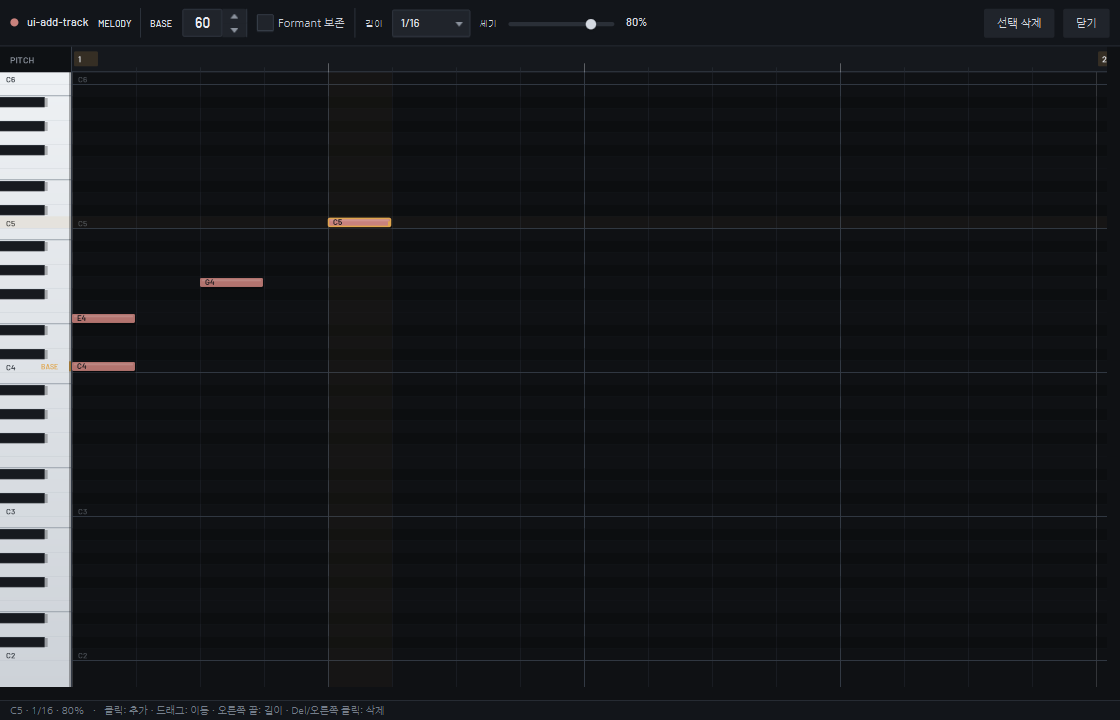
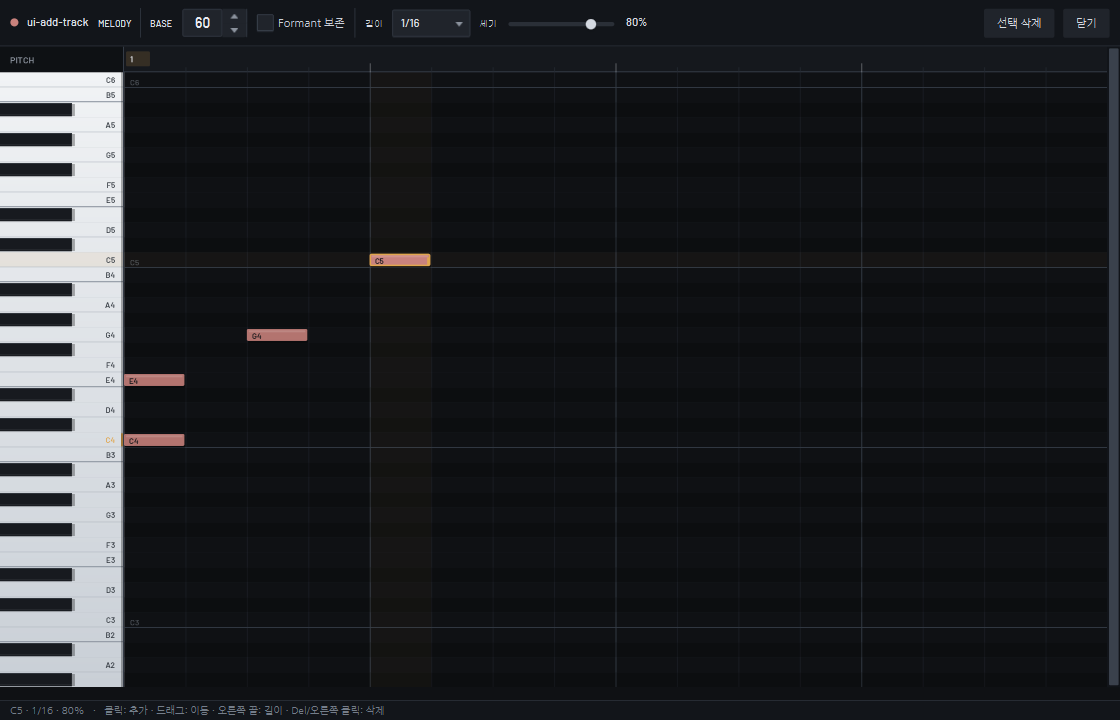
feat: widen piano roll keys and align labels with rows

diff --git a/src/main/java/io/pocketgroove/PianoRollDialog.java b/src/main/java/io/pocketgroove/PianoRollDialog.java
@@ -35,6 +35,10 @@ import java.util.function.Consumer;
 
 /** Modeless-ish piano roll for one melody track; edits are applied to the shared project immediately. */
 final class PianoRollDialog {
+    static final double KEY_W = 124;
+    static final double RULER_H = 26;
+    static final double ROW_H = 15;
+
     private PianoRollDialog() {}
 
     static Stage show(Window owner, Beat.Track track, int trackIndex, List<Beat.Hit> initial,
@@ -146,9 +150,6 @@ final class PianoRollDialog {
     }
 
     private static final class PianoRollView extends Region {
-        private static final double KEY_W = 72;
-        private static final double RULER_H = 26;
-        private static final double ROW_H = 12;
         private static final double MIN_STEP_WIDTH = 18;
         private static final double MAX_STEP_WIDTH = 64;
         private static final int MIN_PITCH = -Beat.MAX_NOTE_PITCH;
@@ -362,7 +363,7 @@ final class PianoRollDialog {
             gc.rect(0, RULER_H, KEY_W, Math.max(0, h - RULER_H));
             gc.clip();
             gc.setFill(new LinearGradient(0, 0, 0, 1, true, CycleMethod.NO_CYCLE,
-                    new Stop(0, Color.web("#EEF1F4")), new Stop(1, Color.web("#CDD2D8"))));
+                    new Stop(0, Color.web("#F1F3F5")), new Stop(1, Color.web("#C9CFD6"))));
             gc.fillRect(0, RULER_H, KEY_W, Math.max(0, h - RULER_H));
             gc.setFont(DawStyle.display(8));
             for (int offset = MAX_PITCH; offset >= MIN_PITCH; offset--) {
@@ -371,45 +372,46 @@ final class PianoRollDialog {
                 int midi = midiFor(offset);
                 int pitchClass = Math.floorMod(midi, 12);
                 boolean black = isBlack(pitchClass);
-                if (!black) {
-                    gc.setFill(DawStyle.alpha(Color.web("#AEB5BE"), .62));
-                    gc.fillRect(0, y + ROW_H - .5, KEY_W, .5);
-                    if (pitchClass == 4 || pitchClass == 11) {
-                        gc.setFill(DawStyle.alpha(Color.web("#8D959F"), .78));
-                        gc.fillRect(0, y + ROW_H - 1.2, KEY_W, 1);
-                    }
-                }
-                if (black) {
-                    double blackWidth = KEY_W * .62;
-                    gc.setFill(DawStyle.alpha(Color.BLACK, .26));
-                    gc.fillRect(blackWidth, y + 1.5, 3, ROW_H - 3);
-                    gc.setFill(Color.web("#171A1F"));
-                    gc.fillRect(0, y + .5, blackWidth, ROW_H - 1.5);
-                    gc.setFill(Color.web("#2B3037"));
-                    gc.fillRect(0, y + .5, blackWidth, 1);
-                    gc.setFill(DawStyle.alpha(Color.WHITE, .07));
-                    gc.fillRect(0, y + ROW_H - 2.5, blackWidth, .7);
-                }
-                if (pitchClass == 0) {
-                    gc.setFill(black ? DawStyle.MUTED : Color.web("#3B4148"));
-                    gc.fillText(noteName(midi), 6, y + ROW_H - 2);
-                }
-                if (offset == 0) {
-                    gc.setFill(DawStyle.ACCENT);
-                    gc.fillRect(KEY_W - 3, y + 1, 2.5, ROW_H - 2);
-                    gc.setFont(DawStyle.display(7));
-                    gc.fillText("BASE", KEY_W - 31, y + ROW_H - 3);
-                    gc.setFont(DawStyle.display(8));
-                }
                 if (hoverPitch == offset) {
-                    gc.setFill(DawStyle.alpha(DawStyle.ACCENT, .16));
+                    gc.setFill(DawStyle.alpha(DawStyle.ACCENT, .15));
                     gc.fillRect(0, y, KEY_W, ROW_H - .5);
                 }
                 if (selected != null && close(selected.pitch(), offset)) {
                     gc.setFill(DawStyle.alpha(DawStyle.ACCENT, .10));
                     gc.fillRect(0, y, KEY_W, ROW_H - .5);
                 }
+                gc.setFill(DawStyle.alpha(Color.web("#AEB5BE"), .42));
+                gc.fillRect(0, y + ROW_H - .5, KEY_W, .5);
+                if (!black) {
+                    gc.setFill(DawStyle.alpha(Color.web("#AEB5BE"), .72));
+                    gc.fillRect(0, y + ROW_H - .8, KEY_W, .8);
+                    if (pitchClass == 4 || pitchClass == 11) {
+                        gc.setFill(DawStyle.alpha(Color.web("#858E99"), .85));
+                        gc.fillRect(0, y + ROW_H - 1.3, KEY_W, 1.1);
+                    }
+                }
+                if (black) {
+                    double blackWidth = KEY_W * .58;
+                    gc.setFill(DawStyle.alpha(Color.BLACK, .30));
+                    gc.fillRect(blackWidth, y + 1.5, 3, ROW_H - 3);
+                    gc.setFill(Color.web("#171A1F"));
+                    gc.fillRect(0, y + .5, blackWidth, ROW_H - 1.5);
+                    gc.setFill(Color.web("#30353C"));
+                    gc.fillRect(0, y + .5, blackWidth, 1);
+                    gc.setFill(DawStyle.alpha(Color.WHITE, .08));
+                    gc.fillRect(0, y + ROW_H - 3, blackWidth, .8);
+                }
+                if (!black) {
+                    gc.setTextAlign(TextAlignment.RIGHT);
+                    gc.setFill(offset == 0 ? DawStyle.ACCENT : Color.web("#3B4148"));
+                    gc.fillText(noteName(midi), KEY_W - 9, y + ROW_H / 2 + 3);
+                }
+                if (offset == 0) {
+                    gc.setFill(DawStyle.ACCENT);
+                    gc.fillRect(KEY_W - 3, y + 1, 2.5, ROW_H - 2);
+                }
             }
+            gc.setTextAlign(TextAlignment.LEFT);
             gc.restore();
             gc.setFill(DawStyle.alpha(Color.BLACK, .30));
             gc.fillRect(KEY_W - 3, RULER_H, 3, Math.max(0, h - RULER_H));

diff --git a/src/test/java/io/pocketgroove/DrumAppSmokeTest.java b/src/test/java/io/pocketgroove/DrumAppSmokeTest.java
@@ -244,29 +244,37 @@ class DrumAppSmokeTest {
                 window.getScene().getRoot().layout();
                 var view = window.getScene().getRoot().lookup(".piano-roll");
                 var canvas = (Canvas) ((Parent) view).getChildrenUnmodifiable().get(0);
-                double stepWidth = (canvas.getWidth() - 72) / 16.0;
-                double stepX = 72 + stepWidth * .5;
+                double stepWidth = (canvas.getWidth() - PianoRollDialog.KEY_W) / 16.0;
+                double stepX = PianoRollDialog.KEY_W + stepWidth * .5;
                 int beforeNotes = app.currentProjectForTest().hits().size();
-                fireMouse(canvas, MouseEvent.MOUSE_PRESSED, stepX, 26 + 24 * 12 + 6);
-                fireMouse(canvas, MouseEvent.MOUSE_RELEASED, stepX, 26 + 24 * 12 + 6);
+                fireMouse(canvas, MouseEvent.MOUSE_PRESSED, stepX,
+                        PianoRollDialog.RULER_H + 24 * PianoRollDialog.ROW_H + PianoRollDialog.ROW_H / 2);
+                fireMouse(canvas, MouseEvent.MOUSE_RELEASED, stepX,
+                        PianoRollDialog.RULER_H + 24 * PianoRollDialog.ROW_H + PianoRollDialog.ROW_H / 2);
                 assertEquals(beforeNotes + 1, app.currentProjectForTest().hits().size(),
                         "clicking the piano roll adds a note to the shared project");
                 var firstMelody = app.currentProjectForTest().hits().stream()
                         .filter(hit -> hit.track() == 7).toList();
                 assertEquals(1, firstMelody.size());
                 assertEquals(0, firstMelody.get(0).pitch(), 0.001);
-                fireMouse(canvas, MouseEvent.MOUSE_PRESSED, stepX, 26 + 20 * 12 + 6);
-                fireMouse(canvas, MouseEvent.MOUSE_RELEASED, stepX, 26 + 20 * 12 + 6);
+                fireMouse(canvas, MouseEvent.MOUSE_PRESSED, stepX,
+                        PianoRollDialog.RULER_H + 20 * PianoRollDialog.ROW_H + PianoRollDialog.ROW_H / 2);
+                fireMouse(canvas, MouseEvent.MOUSE_RELEASED, stepX,
+                        PianoRollDialog.RULER_H + 20 * PianoRollDialog.ROW_H + PianoRollDialog.ROW_H / 2);
                 assertEquals(beforeNotes + 2, app.currentProjectForTest().hits().size(),
                         "a second pitch at the same step forms a chord");
                 assertEquals(List.of(0.0, 4.0),
                         app.currentProjectForTest().hits().stream()
                                 .filter(hit -> hit.track() == 7)
                                 .map(Beat.Hit::pitch).toList());
-                fireMouse(canvas, MouseEvent.MOUSE_PRESSED, 72 + stepWidth * 2.5, 26 + 17 * 12 + 6);
-                fireMouse(canvas, MouseEvent.MOUSE_RELEASED, 72 + stepWidth * 2.5, 26 + 17 * 12 + 6);
-                fireMouse(canvas, MouseEvent.MOUSE_PRESSED, 72 + stepWidth * 4.5, 26 + 12 * 12 + 6);
-                fireMouse(canvas, MouseEvent.MOUSE_RELEASED, 72 + stepWidth * 4.5, 26 + 12 * 12 + 6);
+                fireMouse(canvas, MouseEvent.MOUSE_PRESSED, PianoRollDialog.KEY_W + stepWidth * 2.5,
+                        PianoRollDialog.RULER_H + 17 * PianoRollDialog.ROW_H + PianoRollDialog.ROW_H / 2);
+                fireMouse(canvas, MouseEvent.MOUSE_RELEASED, PianoRollDialog.KEY_W + stepWidth * 2.5,
+                        PianoRollDialog.RULER_H + 17 * PianoRollDialog.ROW_H + PianoRollDialog.ROW_H / 2);
+                fireMouse(canvas, MouseEvent.MOUSE_PRESSED, PianoRollDialog.KEY_W + stepWidth * 4.5,
+                        PianoRollDialog.RULER_H + 12 * PianoRollDialog.ROW_H + PianoRollDialog.ROW_H / 2);
+                fireMouse(canvas, MouseEvent.MOUSE_RELEASED, PianoRollDialog.KEY_W + stepWidth * 4.5,
+                        PianoRollDialog.RULER_H + 12 * PianoRollDialog.ROW_H + PianoRollDialog.ROW_H / 2);
                 capture(window.getScene(), "piano-roll");
                 return null;
             });
